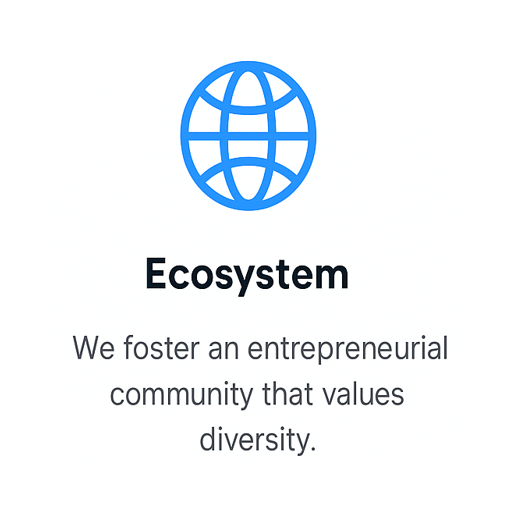
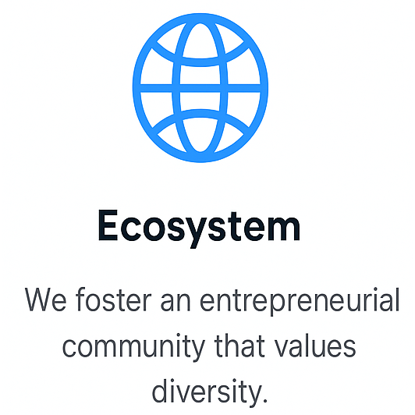
Add files via upload

Changed region(s): [[0.0578, 0.6361, 0.9831, 0.9831], [0.3181, 0.0289, 0.6651, 0.4337], [0.2313, 0.4916, 0.7229, 0.6072]]

diff --git a/Mentor-x.html b/Mentor-x.html
@@ -36,9 +36,11 @@
 
     <!-- 右侧导航链接 -->
     <nav class="space-x-6 text-gray-700 text-base font-medium">
-      <a href="#programs" class="hover:text-blue-600 transition">Programs</a>
-      <a href="#donate" class="hover:text-blue-600 transition">Donate</a>
-      <a href="#contact" class="hover:text-blue-600 transition">Contact Us</a>
+      <a href="https://1813225690-atari-embeds.googleusercontent.com/embeds/16cb204cf3a9d4d223a0a3fd8b0eec5d/inner-frame-minified.html?jsh=m%3B%2F_%2Fscs%2Fabc-static%2F_%2Fjs%2Fk%3Dgapi.lb.zh_CN.HuPD6Jx6JqA.O%2Fd%3D1%2Frs%3DAHpOoo8tY6ZLxl7r5Hb--ojT06NoARUkqg%2Fm%3D__features__#programs"
+         target="_blank" rel="noopener noreferrer" class="hover:text-blue-600 transition">Programs</a>
+      <a href="https://pledge.mentor-x.org/"
+         target="_blank" rel="noopener noreferrer" class="hover:text-blue-600 transition">Donate</a>
+      <a href="mailto:admin@mentor-x.org" class="hover:text-blue-600 transition">Contact Us</a>
     </nav>
   </div>
 </header>
@@ -68,9 +70,16 @@
 
   <!-- 按钮区 -->
   <div class="flex flex-col md:flex-row gap-6">
-    <a href="#join" class="px-6 py-3 bg-blue-500 text-white text-lg font-medium rounded-full shadow-md hover:bg-blue-600 transition">Join Our Community</a>
-    <a href="#donate" class="px-6 py-3 bg-blue-500 text-white text-lg font-medium rounded-full shadow-md hover:bg-blue-600 transition">Donate Now</a>
+    <a href="https://discord.com/invite/xYwggpJxPj" target="_blank" rel="noopener noreferrer"
+       class="px-6 py-3 bg-blue-500 text-white text-lg font-medium rounded-full shadow-md hover:bg-blue-600 transition">
+      Join Our Community
+    </a>
+    <a href="https://pledge.mentor-x.org/" target="_blank" rel="noopener noreferrer"
+       class="px-6 py-3 bg-blue-500 text-white text-lg font-medium rounded-full shadow-md hover:bg-blue-600 transition">
+      Donate Now
+    </a>
   </div>
+
 </section>
 
 
@@ -79,10 +88,10 @@
 
 <!-- Our Mission -->
 <section id="mission" class="mission-bg py-20">
-  <div class="container mx-auto px-6 md:px-12 flex flex-col md:flex-row items-start md:items-center gap-12">
+  <div class="container mx-auto px-6 md:px-12 flex flex-col items-center gap-12">
 
-    <!-- 左侧文字介绍 -->
-    <div class="md:w-1/2">
+    <!-- 左侧文字介绍（现在占据整行） -->
+    <div class="w-full max-w-3xl">
       <h2 class="text-3xl md:text-4xl font-bold text-blue-800 mb-4">Our Mission</h2>
       <p class="text-gray-700 mb-4">
         MentorX is a non-profit organization dedicated to <strong>uplifting Asian startup founders and other underrepresented groups within the startup ecosystem.</strong>
@@ -95,25 +104,47 @@
       </p>
     </div>
 
-    <!-- 右侧图标内容（三个图标横向排布，使用纯白底图） -->
-    <div class="md:w-1/2 grid grid-cols-1 md:grid-cols-3 gap-8">
-
-      <div class="flex flex-col items-center bg-white rounded-lg shadow-md p-4">
-        <img src="images/mentorship-icon-512.png" alt="Mentorship" class="w-32 md:w-40 h-auto object-contain" />
+    <!-- 下面放置图标区域 -->
+    <div class="w-full max-w-5xl grid grid-cols-1 sm:grid-cols-2 md:grid-cols-3 gap-6">
+      <!-- Card 1 -->
+      <div class="flex flex-col items-center text-center bg-white rounded-lg shadow-md p-6">
+        <div class="h-28 flex items-center justify-center mb-3">
+          <img src="images/mentorship-icon-resized.png" alt="Mentorship" class="h-full object-contain" />
+        </div>
+        <h3 class="text-2xl font-semibold mb-2">Mentorship</h3>
+        <p class="text-gray-700 text-base leading-relaxed">
+          We provide guidance and support to help startups thrive.
+        </p>
       </div>
 
-      <div class="flex flex-col items-center bg-white rounded-lg shadow-md p-4">
-        <img src="images/network-icon-512.png" alt="Network" class="w-32 md:w-40 h-auto object-contain" />
+      <!-- Card 2 -->
+      <div class="flex flex-col items-center text-center bg-white rounded-lg shadow-md p-6">
+        <div class="h-28 flex items-center justify-center mb-3">
+          <img src="images/network-icon-resized.png" alt="Network" class="h-full object-contain" />
+        </div>
+        <h3 class="text-2xl font-semibold mb-2">Network</h3>
+        <p class="text-gray-700 text-base leading-relaxed">
+          We create connections to cultivate an inclusive landscape.
+        </p>
       </div>
 
-      <div class="flex flex-col items-center bg-white rounded-lg shadow-md p-4">
-        <img src="images/ecosystem-icon-512.png" alt="Ecosystem" class="w-32 md:w-40 h-auto object-contain" />
+      <!-- Card 3 -->
+      <div class="flex flex-col items-center text-center bg-white rounded-lg shadow-md p-6">
+        <div class="h-28 flex items-center justify-center mb-3">
+          <img src="images/ecosystem-icon-resized.png" alt="Ecosystem" class="h-full object-contain" />
+        </div>
+        <h3 class="text-2xl font-semibold mb-2">Ecosystem</h3>
+        <p class="text-gray-700 text-base leading-relaxed">
+          We foster an entrepreneurial community that values diversity.
+        </p>
       </div>
-
     </div>
+
+
 
   </div>
 </section>
+
 
 <!-- Spacer Section -->
 <section class="h-24 md:h-32 bg-gradient-to-b from-white to-gray-50"></section>
@@ -123,20 +154,28 @@
   <div class="container mx-auto max-w-3xl text-center bg-white bg-opacity-80 p-8 rounded-lg">
     <h2 class="text-3xl font-bold text-blue-800 mb-6">Our Programs</h2>
     <p class="mb-6">Our dedicated mentorship program connects founders with experienced mentors who provide guidance and support tailored to the unique challenges faced by underrepresented groups.</p>
-    <p class="mb-6">Join us bi-monthly for the Seattle Startup Showcase, where founders can pitch their startups, receive coaching from mentors, and connect with fellow founders. <a href="#" class="text-blue-600 hover:underline">Learn more.</a></p>
-    <p>Founders can request office hours to have one-on-one sessions with our mentors, gaining personalized insights and advice. <a href="#" class="text-blue-600 hover:underline">Join our Discord</a> to schedule a session.</p>
-  </div>
+    <p class="mb-6">
+      Join us bi-monthly for the Seattle Startup Showcase, where founders can pitch their startups, receive coaching from mentors, and connect with fellow founders.
+      <a href="https://lu.ma/SeattleStartUpShowcase" target="_blank" rel="noopener noreferrer" class="text-blue-600 hover:underline">Learn more.</a>
+    <p>
+      Founders can request office hours to have one-on-one sessions with our mentors, gaining personalized insights and advice.
+      <a href="https://discord.com/invite/xYwggpJxPj" target="_blank" rel="noopener noreferrer" class="text-blue-600 hover:underline">
+        Join our Discord
+      </a>
+      to schedule a session.
+    </p>
 </section>
 
 <!-- Footer -->
 <footer class="footer-bg text-white py-8">
   <div class="container mx-auto flex flex-col items-center text-center space-y-4">
     <div class="space-x-4 text-orange-400 text-lg">
-      <a href="#programs" class="hover:underline">Programs</a>
+      <a href="https://1813225690-atari-embeds.googleusercontent.com/embeds/16cb204cf3a9d4d223a0a3fd8b0eec5d/inner-frame-minified.html?jsh=m%3B%2F_%2Fscs%2Fabc-static%2F_%2Fjs%2Fk%3Dgapi.lb.zh_CN.HuPD6Jx6JqA.O%2Fd%3D1%2Frs%3DAHpOoo8tY6ZLxl7r5Hb--ojT06NoARUkqg%2Fm%3D__features__#programs"
+         target="_blank" rel="noopener noreferrer" class="hover:underline">Programs</a>
       <span>|</span>
-      <a href="#donate" class="hover:underline">Donate</a>
+      <a href="https://pledge.mentor-x.org/" target="_blank" rel="noopener noreferrer" class="hover:underline">Donate</a>
       <span>|</span>
-      <a href="#contact" class="hover:underline">Contact Us</a>
+      <a href="mailto:admin@mentor-x.org" class="hover:underline">Contact Us</a>
     </div>
     <p class="text-gray-300 text-sm">© 2025 MentorX. All rights reserved.</p>
   </div>
